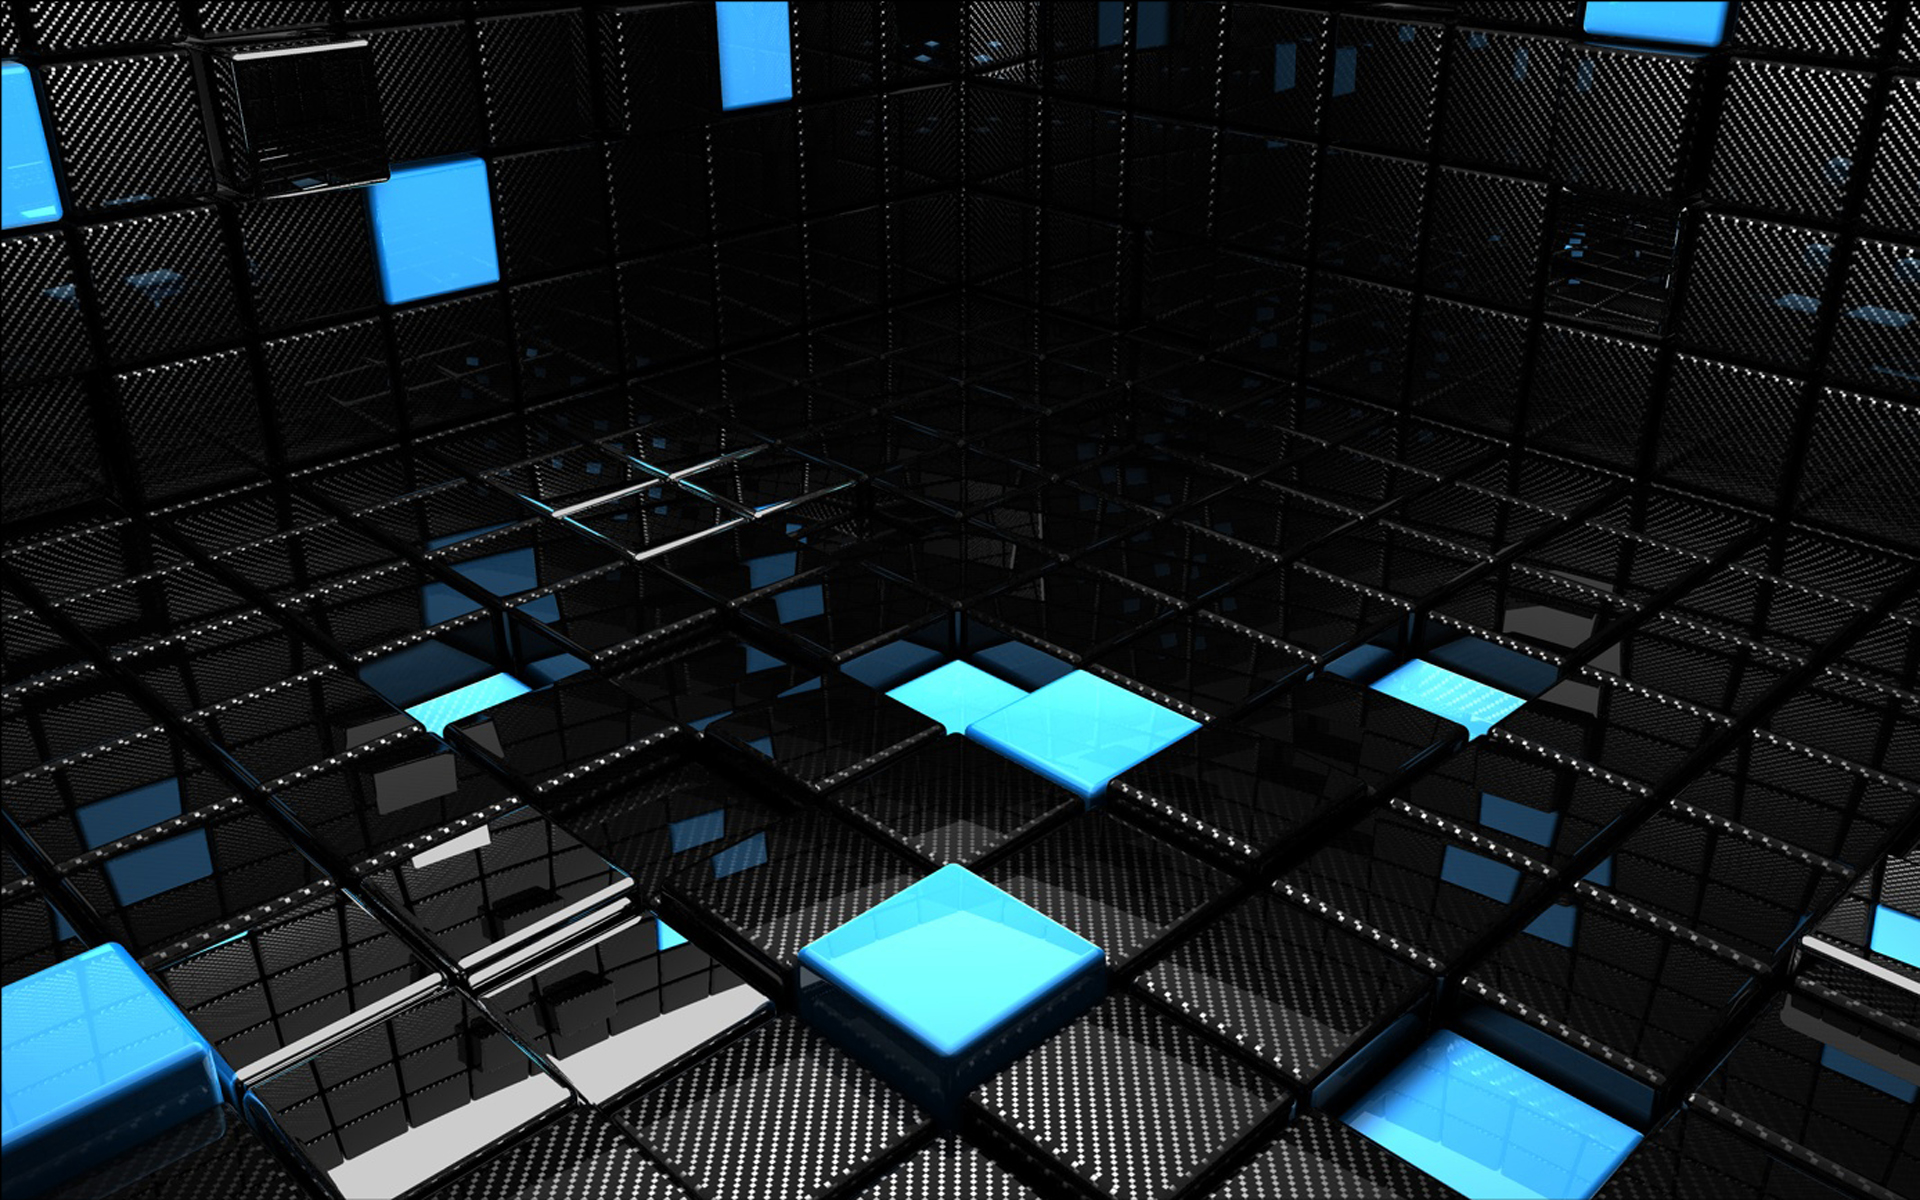
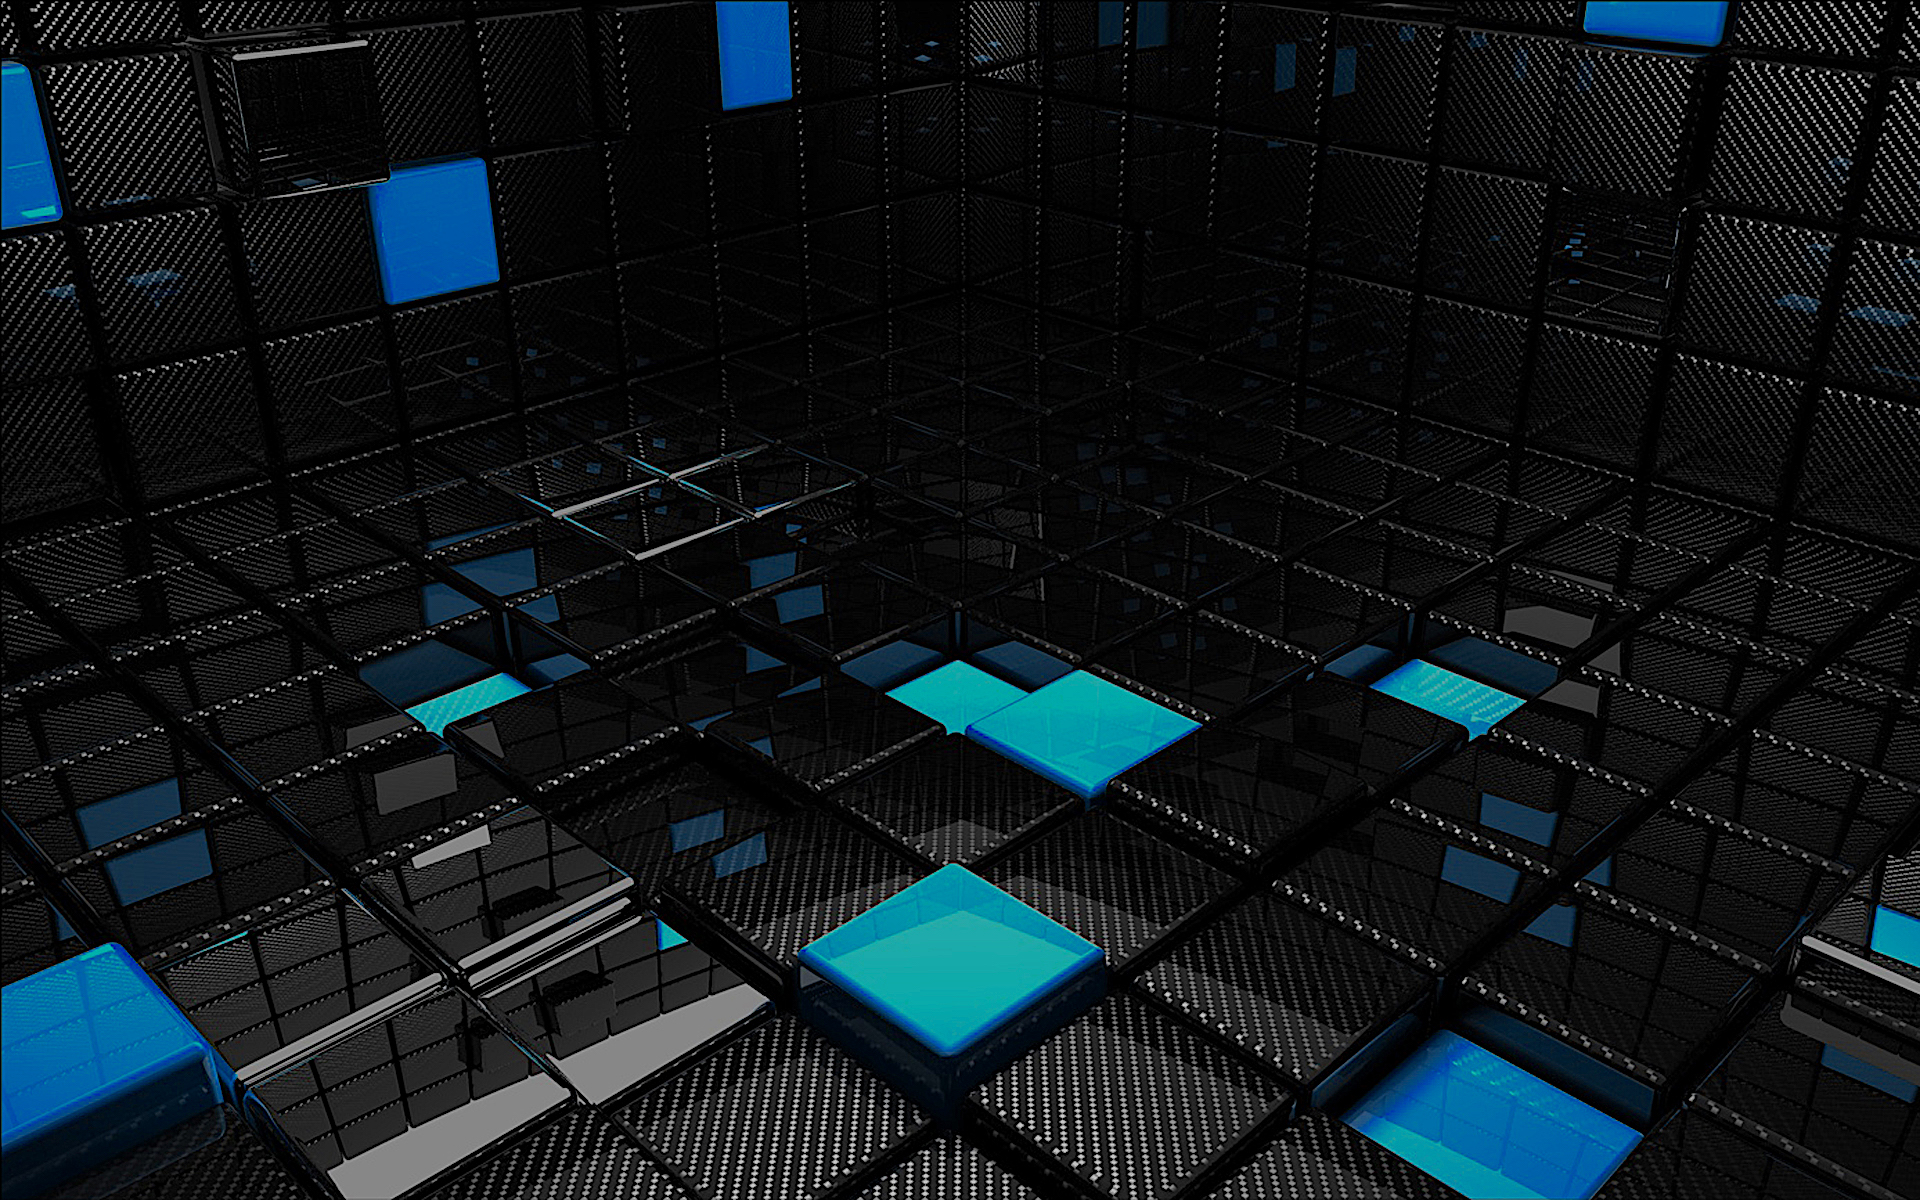
proyecto terminado

diff --git a/html/proyecto/index.html b/html/proyecto/index.html
@@ -12,60 +12,60 @@
         <body>
             <div>
                 <div>
-                    <h1>Fun Sound Board</h1>
+                    <h1 class="animated bounce delay-2s">Fun Sound Board</h1>
                 </div>
-            <div id="container" class="container">
+            <div id="container" class="container-fluid">
                 <div class="row">
                     <div class="col">
-                        <button id="button" class="btn-lg btn-outline-info" onclick="reproducirAudio('1')">X</button>
+                        <button id="button" class="btn-lg btn-outline-info animated push faster" onclick="reproducirAudio('1')">X</button>
                         </div>
                         <div class="col">
-                        <button id="button" class="btn-lg btn-outline-primary center-block" onclick="reproducirAudio('2')">X</button>
+                        <button id="button" class="btn-lg btn-outline-primary center-block animated push faster" onclick="reproducirAudio('2')">X</button>
                         </div>
                         <div class="col">
-                        <button id="button" class="btn-lg btn-outline-secondary" onclick="reproducirAudio('3')">X</button>
+                        <button id="button" class="btn-lg btn-outline-danger animated push faster" onclick="reproducirAudio('3')">X</button>
                         </div>
                        <div class="col">
-                        <button id="button" class="btn-lg btn-outline-success" onclick="reproducirAudio('4')">X</button>
+                        <button id="button" class="btn-lg btn-outline-success animated push faster" onclick="reproducirAudio('4')">X</button>
                     </div>
-                    </div>
+                </div>
 
                 <div class="row"> 
                         <div class="col">
-                        <button id="button" class="btn-lg btn-outline-warning" onclick="reproducirAudio('5')">X</button>
+                        <button id="button" class="btn-lg btn-outline-warning animated push faster" onclick="reproducirAudio('5')">X</button>
                         </div>
                         <div class="col">
-                        <button id="button" class="btn-lg btn-outline-info" onclick="reproducirAudio('6')">X</button>
+                        <button id="button" class="btn-lg btn-outline-info animated push faster fas fa-guitar" onclick="reproducirAudio('6')">X</button>
                         </div>
                         <div class="col">
-                        <button id="button" class="btn-lg btn-outline-light" onclick="reproducirAudio('7')">X</button>
+                        <button id="button" class="btn-lg btn-outline-light animated push faster" onclick="reproducirAudio('7')">X</button>
                         </div>
                         <div class="col">
-                        <button id="button" class="btn-lg btn-outline-warning" onclick="reproducirAudio('8')">X</button>
+                        <button id="button" class="btn-lg btn-outline-warning animated push faster" onclick="reproducirAudio('8')">X</button>
                         </div>
                     </div>
                 <div class="row">
                         <div class="col">
-                        <button id="button" class="btn-lg btn-outline-light" onclick="reproducirAudio('9')">X</button>
+                        <button id="button" class="btn-lg btn-outline-light animated push faster" onclick="reproducirAudio('9')">X</button>
                         </div>
                         <div class="col">
-                        <button id="button" class="btn-lg btn-outline-dark" onclick="reproducirAudio('10')">X</button>
+                        <button id="button" class="btn-lg btn-outline-dark animated push faster" onclick="reproducirAudio('10')">X</button>
                         </div>
                         <div class="col">
-                        <button id="button" class="btn-lg btn-outline-info" onclick="reproducirAudio('11')">X</button>
+                        <button id="button" class="btn-lg btn-outline-info animated push faster" onclick="reproducirAudio('11')">X</button>
                         </div>
                         <div class="col">
-                        <button id="button" class="btn-lg btn-outline-danger" onclick="reproducirAudio('12')">X</button>
+                        <button id="button" class="btn-lg btn-outline-danger animated push faster" onclick="reproducirAudio('12')">X</button>
                         
                         </div>
                     
                 </div>
                 <div class="row">
                     <div class="col">
-                            <button id="buttonDown" onclick="grabar()" id="botonReproducir" class="btn btn-danger btn">GRABAR</button>
-                            <button id="buttonDown" onclick="detenerGrabacion()" id="botonAlto" class="btn btn-warning">DETENER GRABACION</button>
-                            <button id="buttonDown" onclick="reproducirSecuencia()" id="botonAlto" class="btn btn-success">REPRODUCIR GRABACION</button>
-                            <button id="buttonDown" onclick="reproducirAudioSecuencia(0)" id="botonAlto" class="btn btn-info">REPRODUCIR GRABACION RECURSIVA</button>
+                            <button id="buttonDown" onclick="grabar()" id="botonReproducir" class="btn btn-danger btn animated push">  GRABAR   </button>
+                            <button id="buttonDown" onclick="detenerGrabacion()" id="botonAlto" class="btn btn-warning animated push">DETENER GRABACION  </button>
+                            <button id="buttonDown" onclick="reproducirSecuencia()" id="botonAlto" class="btn btn-success animated push">REPRODUCIR GRABACION  </button>
+                            <button id="buttonDown" onclick="reproducirAudioSecuencia(0)" id="botonAlto" class="btn btn-info animated push">REPRODUCIR GRABACION RECURSIVA</button>
                     </div>
                 </div>
                 </div>

diff --git a/html/proyecto/proyecto.css b/html/proyecto/proyecto.css
@@ -1,35 +1,43 @@
-body {
-    background-image: url(images/3D-Futuristic-Room-Wallpaper.jpg);
-    background-repeat: no-repeat;
-    background-position: right top;
-    background-attachment: fixed;
-  }
-  h1{
-      color:white;
-      text-align: center;
-  }
-  #button{
-    font-size: 1.25rem;
-    line-height: 10%;
-    border-radius: .3rem;
-    border: 1px solid;
-    padding: 10px;
-    box-shadow: 2px 5px #888888;
-  }
-  #buttonDown{
-      margin-left:auto;
-      margin-right: auto;
-  }
-  .row{
-    margin-left:auto;
-    margin-right:auto;
-  }
-  #container{
-      margin-left: auto;
-      margin-right: auto;
-  }
-  .col{
-      margin-left: center;
-      margin-right: center;
+    body {
+        background-image: url(images/download.png);
+        background-repeat: no-repeat;
+        background-position: right top;
+        background-attachment: fixed;
+        
+        
+    }
+    h1{
+        color:orange;
+        text-align: center;
+        animation-iteration-count: 1;
+    }
+    #button:active {
+        align-content: center;
+        font-size: 100%;
+        line-height: 100%;
+        width: 100%;
+        box-shadow: 2px 5px #888888;
+        padding: 70px;
+    }
+    button{
+        margin-left:auto;
+        margin-right: auto;
+    }
+  
+    #buttonDown{
+        margin-left:auto;
+        margin-right: auto;
+    }
+    .row{
+        margin-left:12%;
+        padding: 70px;
+    }
+    #container{
+        margin-left: auto;
+        margin-right: auto;
+    }
+    .col{
+        padding: none;
+        align-items: center;
 
-  }
+    }
